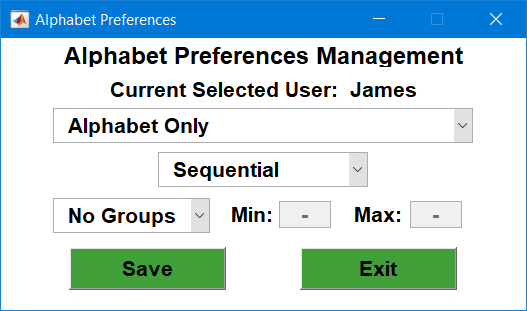
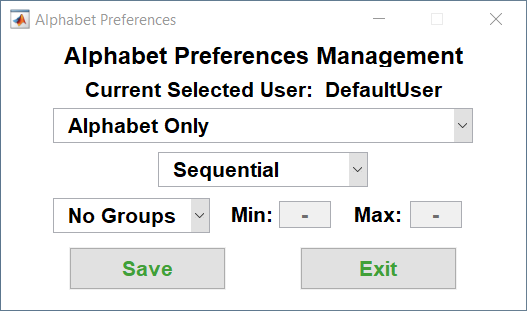
Fixed save and exit button colors

diff --git a/MorseHelp/MorseHelp.html b/MorseHelp/MorseHelp.html
@@ -157,16 +157,29 @@
             This window displays the currently selected user at the top of the window. The drop down box labeled "Select a User" can be selected to allow you to "Add a New User" or to select a user from the list displayed.  If a user is selected, that users preferences are displayed and can be edited if desired. After the editing is complete, select "Save" to save the changes. If the user selected is not the "Currently Selected User", then "Make Active" can be selected and the current user will be replaced with the new or changed user.  Also the selected user can be deleted if desired.  Note that the Default User cannot be deleted or edited. Depending on the task being performed, only certain of the action buttons along the bottom of the window are displayed or enabled.
         </p>
         <p>------------------------------------------------------------------------------------------------------------------------------------------------------</p>
-        <h5 id="4.1.2">4.1.2 Window Preferences Window</h5>
+        <h5 id="4.1.2">4.1.2 Program Preferences Window</h5>
         <p>
-            When Window Preferences is selected from the Preferences Drop Down Menu on the main window, the window shown below opens. 
+            When Program Preferences is selected from the Preferences Drop Down Menu on the main window, the window shown below opens. 
         </p>
-        <a href="screenshots/WindowPreferencesWindow.png">
-            <img alt="A screenshot showing Window Preferences" src="screenshots/WindowPreferencesWindow.png"/ width="400">
+        <a href="screenshots/ProgramPreferencesWindow.png">
+            <img alt="A screenshot showing Program Preferences" src="screenshots/ProgramPreferencesWindow.png"/ width="400">
         </a>
         <p>
-            This window displays the currently selected user at the top of the window. There is a checkbox to select 'Save Window Position on Exit'. The default is checked. Once you like the position of windows and have saved those windows, then those windows will reopen at that position. If desired, after windows are positioned to your liking, the box can be unchecked to prevent further changes. The 'Scale Factor' is set to 1 by default. It is currently not used.
-        </p>
+            This window displays the currently selected user at the top of the window. There are three distinct areas in the window whose functions are summarized below.
+            </p>
+        <ul>
+            <li>
+                Windows - There is a checkbox to select 'Save Window Position on Exit'. The default is checked. Once you like the position of windows and have saved those windows, then those windows will reopen at that position. If desired, after windows are positioned to your liking, the box can be unchecked to prevent further changes. The 'Scale Factor' is set to 1 by default. It is currently not used.
+            </li>
+            <li>
+                Audio - The volume of the audio output sent to the standard output can be set from 0 (mute) to 1 (maximum).
+            </li>
+            <li>
+                Flasher - There is a checkbox to enable the Flasher function. The default value is unchecked. If enabled, the Flasher window will open during any of the transmission modes and a visual display of the dots and dashes will be shown. The On and Off buttons allow the user to selecr these respective colors. Clicking either button will open a color selector to select a color.
+            </li>
+        </ul>
+            
+
         <p>------------------------------------------------------------------------------------------------------------------------------------------------------</p>
         <h4 id="4.2">4.2 Transmit from Alphabet Window</h4>
         <p>

diff --git a/AlphabetPreferences.m b/AlphabetPreferences.m
@@ -160,7 +160,7 @@ function AlphabetPreferences(AlphabetWinHandle)
         'Units', 'normalized',...
         'Position', [.13 .07 .3 .16 ],...
         'FontSize', textFont,'FontWeight','bold',...
-        'BackgroundColor',green,'HorizontalAlignment','center',...         
+        'ForegroundColor',green,'HorizontalAlignment','center',...         
         'string', 'Save',...
         'callback', {@UpdateAlphaCallback, 6 } ...
     );
@@ -170,7 +170,7 @@ function AlphabetPreferences(AlphabetWinHandle)
         'Units', 'normalized',...
         'Position', [.57 .07 .3 .16 ],...
         'FontSize', textFont,'FontWeight','bold',...
-        'BackgroundColor',green,'HorizontalAlignment','center',...
+        'ForegroundColor',green,'HorizontalAlignment','center',...
         'string', 'Exit',...
         'callback', {@UpdateAlphaCallback, 7 } ...
     );

diff --git a/ProgramPreferences.m b/ProgramPreferences.m
@@ -184,7 +184,7 @@ function ProgramPreferences()
         'Units', 'normalized',...
         'Position', [.18 .05 .2 .08 ],...
         'FontSize', textFont,'FontWeight','bold',...
-        'BackgroundColor',green,'HorizontalAlignment','center',...
+        'ForegroundColor',green,'HorizontalAlignment','center',...
         'string', 'Save',...
         'callback', @saveWinCallback...
     );
@@ -194,7 +194,7 @@ function ProgramPreferences()
         'Units', 'normalized',...
         'Position', [.62 .05 .2 .08 ],...
         'FontSize', textFont,'FontWeight','bold',...
-        'BackgroundColor',green,'HorizontalAlignment','center',...
+        'ForegroundColor',green,'HorizontalAlignment','center',...
         'string', 'Exit',...
         'callback', @CloseRequestCallback...
     );
